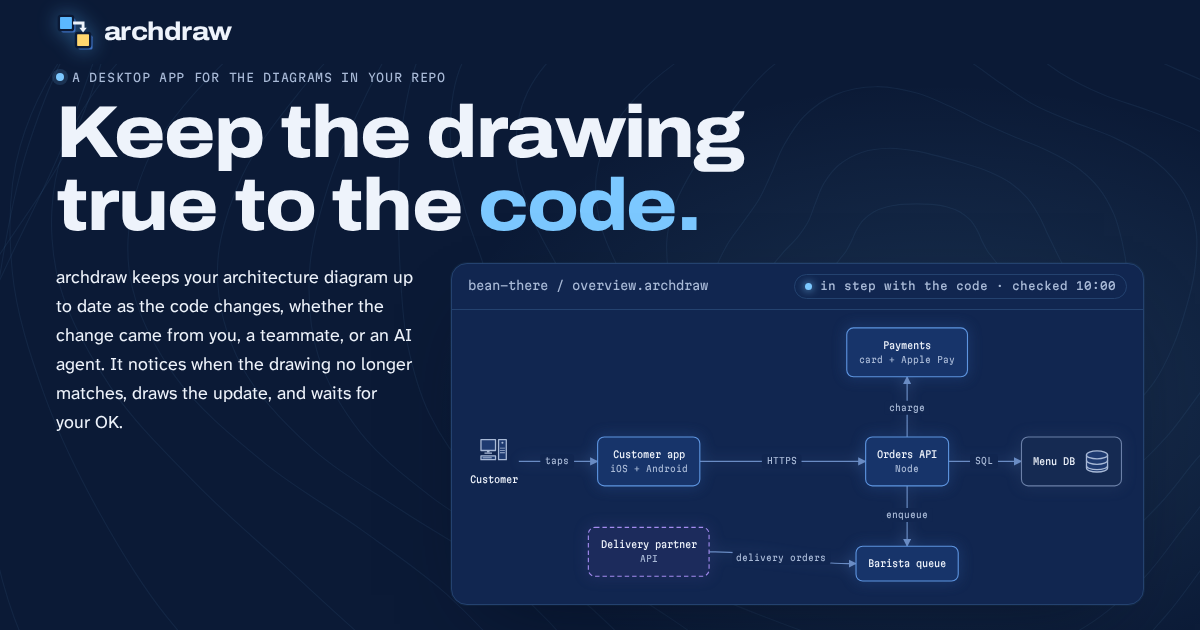
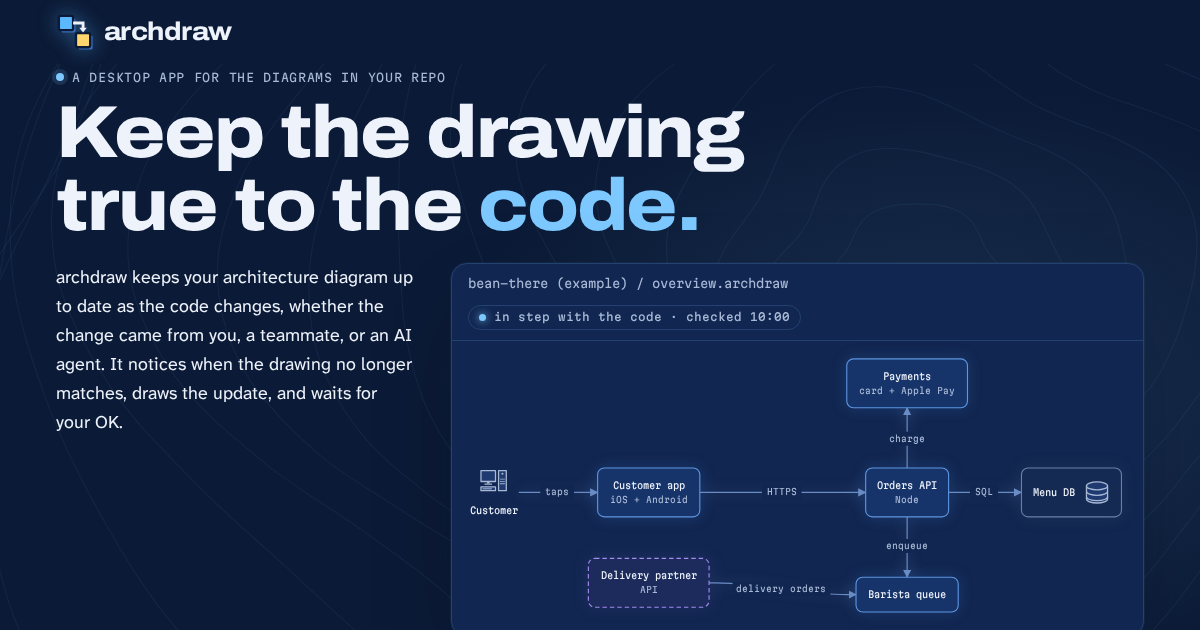
site: fixes from review (sponsors, privacy, keyboard Approve, pause)
- No Sponsor button or link until GitHub Sponsors is live.
- /privacy: the key is encrypted with the OS keychain and kept in an
  owner-only file; no archdraw server; agent requests go to the chosen
  provider under its terms; update checks reach GitHub every six hours;
  drafted updates sit on archdraw/update; Vercel keeps request logs.
- Approve uses aria-disabled so it stays focusable; pressing it early
  jumps to the story's end and approves; focus moves to "Show it again".
- A Pause motion control in the hero holds every looping animation.
- Step 3 says checks run while archdraw is open; daily reads "in 24 hours".
- Get: Mac .dmg hint, requirements line, "Next in the app" change log,
  "archdraw Cloud, later".
- One name for "fax orders"; the sample is labelled "(example)".
- Diff chip text at 4.5:1 or better in daylight; animation start
  states at 0.6 opacity; the week keeps its side gutter; phone drawing
  frames are labelled scroll regions that open on the busiest part;
  pills wrap at 360 px.
- README: www redirects to the apex, keep Namecheap MX/TXT records,
  an Ignored Build Step so app-only commits skip the site build.

Agent: Banna

Changed region(s): [[0.37, 0.6937, 0.9558, 1.0], [0.4008, 0.4222, 0.925, 0.5429], [0.6783, 0.5127, 0.8325, 0.6635]]

diff --git a/site/src/styles/global.css b/site/src/styles/global.css
@@ -19,6 +19,7 @@
   --chg: #B05C08;  --chg-soft: #B05C081C;   /* Amber: changed */
   --del: #C8333B;  --del-soft: #C8333B1C;   /* Ember: removed */
   --on-diff: #FFFFFF;
+  --add-text: #116B40; --chg-text: #8F4906; --del-text: #A8262E;   /* the diff colors as small text: 4.5:1 or better */
   --you: #1D5FD0; --mate: #7246D9; --agent: #B83598;
   --contour: #1D5FD014;
   --glow-a: 0;            /* glow strength multiplier (0 in daylight) */
@@ -40,7 +41,7 @@
     --text: #EEF3FB; --text-2: #A8B9D6; --signal: #7CC8FF; --signal-soft: #7CC8FF24; --on-signal: #0B1A36;
     --lamp: #FFD66E; --lamp-edge: #FFE7A6; --lamp-shadow: #B7861C; --on-lamp: #0B1A36;
     --add: #5EE0A0; --add-soft: #5EE0A026; --chg: #FFA24C; --chg-soft: #FFA24C26; --del: #FF6E6E; --del-soft: #FF6E6E26;
-    --on-diff: #0B1A36; --you: #7CC8FF; --mate: #C3A6FF; --agent: #F59BE6;
+    --on-diff: #0B1A36; --add-text: #5EE0A0; --chg-text: #FFA24C; --del-text: #FF6E6E; --you: #7CC8FF; --mate: #C3A6FF; --agent: #F59BE6;
     --contour: #7CC8FF12; --glow-a: 1;
     --dg-bg: #112650; --dg-box: #17346A; --dg-line: #5E95E0; --dg-store: #152A52; --dg-store-line: #6B80A8;
     --dg-ext: #1C2B5C; --dg-ext-line: #A48CF0; --dg-text: #EEF3FB; --dg-sub: #A8B9D6; --dg-edge: #6A8CC4;
@@ -54,7 +55,7 @@
   --text: #EEF3FB; --text-2: #A8B9D6; --signal: #7CC8FF; --signal-soft: #7CC8FF24; --on-signal: #0B1A36;
   --lamp: #FFD66E; --lamp-edge: #FFE7A6; --lamp-shadow: #B7861C; --on-lamp: #0B1A36;
   --add: #5EE0A0; --add-soft: #5EE0A026; --chg: #FFA24C; --chg-soft: #FFA24C26; --del: #FF6E6E; --del-soft: #FF6E6E26;
-  --on-diff: #0B1A36; --you: #7CC8FF; --mate: #C3A6FF; --agent: #F59BE6;
+  --on-diff: #0B1A36; --add-text: #5EE0A0; --chg-text: #FFA24C; --del-text: #FF6E6E; --you: #7CC8FF; --mate: #C3A6FF; --agent: #F59BE6;
   --contour: #7CC8FF12; --glow-a: 1;
   --dg-bg: #112650; --dg-box: #17346A; --dg-line: #5E95E0; --dg-store: #152A52; --dg-store-line: #6B80A8;
   --dg-ext: #1C2B5C; --dg-ext-line: #A48CF0; --dg-text: #EEF3FB; --dg-sub: #A8B9D6; --dg-edge: #6A8CC4;
@@ -109,7 +110,7 @@ code, kbd, pre, .mono { font-family: var(--f-mono); }
 .btn-lamp { --b: var(--lamp); --c: var(--on-lamp); --edge: var(--lamp-edge); --shadow: var(--lamp-shadow); }
 .btn-ghost { --b: transparent; --edge: var(--text-2); --shadow: var(--rule); }
 .btn-approve { --b: var(--add); --c: var(--on-diff); --edge: var(--add); --shadow: color-mix(in srgb, var(--add) 55%, #000); }
-.btn[disabled] { cursor: not-allowed; opacity: .55; transform: none; }
+.btn[disabled], .btn[aria-disabled="true"] { cursor: not-allowed; opacity: .55; transform: none; }
 .btn-sm { min-height: 40px; padding: .5em .95em; font-size: .92rem; box-shadow: 0 3px 0 var(--shadow); }
 
 /* header */
@@ -148,6 +149,7 @@ section { scroll-margin-top: 16px; }
 .win-bar { display: flex; align-items: center; justify-content: space-between; gap: 12px; flex-wrap: wrap; padding: 10px 16px; border-bottom: 1px solid var(--rule); font-size: .72rem; }
 .win-bar .mono { color: var(--text-2); }
 .pill { display: inline-flex; align-items: center; gap: 8px; font: 500 .68rem/1 var(--f-mono); padding: 6px 10px; border-radius: 99px; border: 1px solid var(--rule); color: var(--text-2); white-space: nowrap; }
+@media (max-width: 420px) { .pill { white-space: normal; line-height: 1.35; max-width: 100%; } .pill i { flex: none; } }
 .pill i { width: 7px; height: 7px; border-radius: 50%; background: var(--signal); box-shadow: 0 0 8px var(--signal); }
 .pill.warn i { background: var(--chg); box-shadow: 0 0 8px var(--chg); }
 .live-dot { width: 8px; height: 8px; border-radius: 50%; background: var(--signal); box-shadow: 0 0 0 4px var(--signal-soft); animation: beat 2.4s ease-in-out infinite; }
@@ -160,7 +162,7 @@ section { scroll-margin-top: 16px; }
 .who-arch .av { background: transparent; border: 1px solid var(--rule); } .who-arch .av .mark { width: 18px; height: 18px; }
 .chips { display: flex; flex-wrap: wrap; gap: 6px; }
 .chip { font: 600 .74rem var(--f-mono); padding: 4px 9px; border-radius: 6px; border: 1.5px solid currentColor; }
-.chip.add { color: var(--add); background: var(--add-soft); } .chip.chg { color: var(--chg); background: var(--chg-soft); } .chip.del { color: var(--del); background: var(--del-soft); }
+.chip.add { color: var(--add-text); background: var(--add-soft); } .chip.chg { color: var(--chg-text); background: var(--chg-soft); } .chip.del { color: var(--del-text); background: var(--del-soft); }
 
 /* plain pages: privacy, 404 */
 .page { padding-block: clamp(48px, 10vh, 120px); min-height: 60vh; }
@@ -172,6 +174,9 @@ footer { border-top: 1px solid var(--rule); padding-block: 28px 40px; }
 .foot nav { display: flex; flex-wrap: wrap; gap: 8px 18px; margin-left: auto; }
 .foot a { color: var(--text-2); }
 .foot .brand { font-size: 1.05rem; } .foot .brand .mark { width: 24px; height: 24px; }
+
+/* the hero's Pause motion control holds every CSS loop too */
+.motion-held *, .motion-held *::before, .motion-held *::after { animation-play-state: paused !important; }
 
 @media (prefers-reduced-motion: reduce) {
   *, *::before, *::after { animation: none !important; transition: none !important; scroll-behavior: auto !important; }

diff --git a/site/src/scripts/review.ts b/site/src/scripts/review.ts
@@ -15,13 +15,16 @@ export function initReview(): void {
   let settled = false, pinned = false;
   let flow: Particles | null = null;
   const canMove = () => !reduceMotion.matches;
+  // aria-disabled, not disabled: the button stays focusable while the story plays, and says why it waits
+  const setOff = (off: boolean) => approve.setAttribute('aria-disabled', String(off));
+  const isOff = () => approve.getAttribute('aria-disabled') === 'true';
 
   function settle() {
     if (settled) return;
     settled = true;
     story.classList.add('settled');
     approve.classList.remove('ready');
-    approve.disabled = true;
+    setOff(true);
     label.textContent = 'Approved';
     aStatus.textContent = 'Approved. The drawing is true again.';
     pill.classList.remove('warn');
@@ -36,7 +39,7 @@ export function initReview(): void {
     if (!settled) return;
     settled = false;
     story.classList.remove('settled');
-    approve.disabled = false;
+    setOff(false);
     approve.classList.add('ready');
     label.textContent = 'Approve update';
     aStatus.textContent = 'Waiting for your OK.';
@@ -45,7 +48,16 @@ export function initReview(): void {
     reset.hidden = true;
     if (flow) { flow.kill(); flow = null; }
   }
-  approve.addEventListener('click', settle);
+  approve.addEventListener('click', () => {
+    if (settled) return;
+    if (isOff() && pinned) {
+      // pressed before the story got there: jump to its end state, then approve
+      const st = ScrollTrigger.getById('story');
+      if (st) { window.scrollTo({ top: st.end, behavior: 'auto' }); ScrollTrigger.update(); }
+    }
+    settle();
+    reset.focus();
+  });
   reset.addEventListener('click', () => {
     unsettle();
     approve.focus();
@@ -84,7 +96,7 @@ export function initReview(): void {
         aStatus.textContent = STATUS[s];
         pillT.textContent = PILL[s];
         pill.classList.toggle('warn', s >= 1);
-        approve.disabled = s < 2;
+        setOff(s < 2);
         approve.classList.toggle('ready', s === 3);
       }
     };
@@ -96,7 +108,7 @@ export function initReview(): void {
         onUpdate: self => { const t = self.progress * tl.duration(); setStep(t < 1.3 ? 0 : t < 2.1 ? 1 : t < 4.1 ? 2 : 3); },
       },
     });
-    tl.fromTo(commits, { opacity: 0.35, x: -14 }, { opacity: 1, x: 0, stagger: 0.3, duration: 0.4, ease: 'power2.out' }, 0.1)
+    tl.fromTo(commits, { opacity: 0.6, x: -14 }, { opacity: 1, x: 0, stagger: 0.3, duration: 0.4, ease: 'power2.out' }, 0.1)
       .fromTo($$('.nd-pay .box, .nd-fax .box', sSvg), { strokeWidth: 1.5 }, { strokeWidth: 3, duration: 0.3 }, 1.3)
       .to({}, { duration: 0.6 })
       .add(draftTimeline(sSvg), 2.1)
@@ -113,7 +125,7 @@ export function initReview(): void {
       sSvg.classList.remove('is-stale');
       steps.forEach(li => li.classList.remove('on'));
       delete story.dataset.step;
-      approve.disabled = false;
+      setOff(false);
       approve.classList.add('ready');
       aStatus.textContent = 'Waiting for your OK.';
       pillT.textContent = 'update drafted · 10:00';

diff --git a/site/src/scripts/live.ts b/site/src/scripts/live.ts
@@ -14,6 +14,28 @@ function pathLen(d: string): number {
   try { return p.getTotalLength(); } catch { return 200; }
 }
 
+/* Looping animations register here, so one control can hold them all (WCAG 2.2.2, pause, stop, hide).
+   A loop plays only when its section wants it and the visitor has not held the motion. */
+interface Loop { wanted: boolean; run(on: boolean): void }
+const loops = new Set<Loop>();
+let held = false;
+export interface LoopHandle { play(): void; pause(): void; kill(): void }
+export function loop(run: (on: boolean) => void, onKill?: () => void): LoopHandle {
+  const l: Loop = { wanted: false, run };
+  loops.add(l);
+  return {
+    play() { l.wanted = true; if (!held && !reduceMotion.matches) run(true); },
+    pause() { l.wanted = false; run(false); },
+    kill() { loops.delete(l); run(false); onKill?.(); },
+  };
+}
+/** Hold (or release) every looping animation on the page, CSS ones included. */
+export function hold(on: boolean): void {
+  held = on;
+  document.documentElement.classList.toggle('motion-held', on);
+  loops.forEach(l => l.run(!on && l.wanted && !reduceMotion.matches));
+}
+
 /** A layer of particles running along the given paths inside an overlay svg. */
 export function particles(overlay: SVGSVGElement, routes: Route[], opts: { speed?: number; halo?: number; core?: number } = {}): Particles {
   const speed = opts.speed ?? 70; // svg units per second
@@ -42,12 +64,8 @@ export function particles(overlay: SVGSVGElement, routes: Route[], opts: { speed
       tls.push(tl);
     }
   }
-  return {
-    el: g,
-    play() { if (!reduceMotion.matches) tls.forEach(t => t.play()); },
-    pause() { tls.forEach(t => t.pause()); },
-    kill() { tls.forEach(t => t.kill()); g.remove(); },
-  };
+  const handle = loop(on => tls.forEach(t => (on ? t.play() : t.pause())), () => { tls.forEach(t => t.kill()); g.remove(); });
+  return { el: g, ...handle };
 }
 
 export const AFTER_ROUTES: Route[] = [{ d: P.taps }, { d: P.https }, { d: P.enq }, { d: P.sql }, { d: P.charge }, { d: P.deliv }];
@@ -74,7 +92,7 @@ export function setBefore(svg: SVGSVGElement): void {
   gsap.set(q('.ring'), { opacity: 0, transformOrigin: '50% 50%' });
 }
 
-/** The drafted update: the fax line goes red and leaves, the column slides, Payments grows,
+/** The drafted update: fax orders goes red and leaves, the column slides, Payments grows,
  *  Delivery partner is drawn in, and the marks glow on the real boxes. */
 export function draftTimeline(svg: SVGSVGElement): gsap.core.Timeline {
   const q = (s: string) => [...svg.querySelectorAll(s)], one = (s: string) => svg.querySelector(s)!;

diff --git a/site/src/scripts/hero.ts b/site/src/scripts/hero.ts
@@ -2,7 +2,7 @@
 // the edges, and the live ticker shows changes landing from you, a teammate and a coding agent, with
 // archdraw's hourly check sweeping the drawing. Everything here is decoration over a complete page.
 import { $, Flip, MOTION, ScrollTrigger, SplitText, gsap } from './gsap';
-import { AFTER_ROUTES, particles } from './live';
+import { AFTER_ROUTES, hold, loop, particles } from './live';
 
 type Who = 'you' | 'mate' | 'agent' | 'arch';
 interface Ev { at: number; w: Who; n: string; a?: string; t: string; node?: string }
@@ -25,6 +25,15 @@ const hhmm = (m: number) => `${String(Math.floor(m / 60) % 24).padStart(2, '0')}
 export function initHero(): void {
   const hero = $('.hero');
   if (!hero) return;
+
+  /* one control holds every looping animation on the page */
+  const holdBtn = $<HTMLButtonElement>('.hold', hero);
+  holdBtn?.addEventListener('click', () => {
+    const on = holdBtn.getAttribute('aria-pressed') !== 'true';
+    holdBtn.setAttribute('aria-pressed', String(on));
+    $('.hold-t', holdBtn).textContent = on ? 'Play motion' : 'Pause motion';
+    hold(on);
+  });
   const mm = gsap.matchMedia();
   mm.add(MOTION, () => {
     /* logo: the arrow draws once from block to block */
@@ -95,17 +104,19 @@ export function initHero(): void {
         if (fl) { fl.setAttribute('class', 'fl fl-' + e.node + ' who-' + e.w); gsap.fromTo(fl, { opacity: 1 }, { opacity: 0, duration: 1.8, ease: 'power2.in' }); }
       }
     };
-    const ticker = gsap.timeline({ repeat: -1, delay: 2.4 }).call(tick).to({}, { duration: 3.2 });
+    const ticker = gsap.timeline({ repeat: -1, delay: 2.4, paused: true }).call(tick).to({}, { duration: 3.2 });
+    const tk = loop(on => (on ? ticker.resume() : ticker.pause()), () => ticker.kill());
 
     /* everything rests while the hero is off screen */
     const st = ScrollTrigger.create({
       trigger: hero, start: 'top bottom', end: 'bottom top',
       onToggle: s => {
         hero.classList.toggle('off', !s.isActive);
-        if (s.isActive) { flow.play(); ticker.resume(); } else { flow.pause(); ticker.pause(); }
+        if (s.isActive) { flow.play(); tk.play(); } else { flow.pause(); tk.pause(); }
       },
     });
     flow.play();
-    return () => { flow.kill(); ticker.kill(); st.kill(); split?.revert(); };
+    tk.play();
+    return () => { flow.kill(); tk.kill(); st.kill(); split?.revert(); };
   });
 }

diff --git a/site/src/scripts/frames.ts b/site/src/scripts/frames.ts
@@ -1,0 +1,20 @@
+// Phone drawing frames: the drawing keeps a readable size and scrolls sideways inside its frame.
+// Open each frame on its busiest part, and keep the frame a keyboard stop only while it can scroll.
+export function initFrames(): void {
+  const frames = [...document.querySelectorAll<HTMLElement>('.stage-scroll')];
+  const fit = () => frames.forEach(el => {
+    const scrolls = el.scrollWidth > el.clientWidth + 1;
+    if (scrolls) {
+      el.setAttribute('tabindex', '0');
+      el.setAttribute('aria-label', 'Diagram, scrolls sideways');
+      const focus = Number(el.dataset.focus ?? 0.5); // where the busiest part sits, as a share of the drawing's width
+      el.scrollLeft = Math.max(0, Math.min(el.scrollWidth - el.clientWidth, focus * el.scrollWidth - el.clientWidth / 2));
+    } else {
+      el.removeAttribute('tabindex');
+      el.setAttribute('aria-label', 'Diagram');
+    }
+  });
+  fit();
+  let w = window.innerWidth;
+  window.addEventListener('resize', () => { if (window.innerWidth !== w) { w = window.innerWidth; fit(); } });
+}

diff --git a/site/src/styles/diagram.css b/site/src/styles/diagram.css
@@ -19,12 +19,12 @@
 .dg .ring-del rect { fill: var(--del-soft); stroke: var(--del); } .dg .ring-del circle { fill: var(--del); }
 .dg .eg-add .edge { stroke: var(--add); stroke-width: 2.4; }
 .dg .eg-add .arr, .dg .arr-add { fill: var(--add); }
-.dg .eg-add .lbl { fill: var(--add); font-weight: 600; }
+.dg .eg-add .lbl { fill: var(--add-text); font-weight: 600; }
 @media (prefers-color-scheme: light) { :root:not([data-theme="dark"]) .dg .rings { filter: none; } }
 :root[data-theme="light"] .dg .rings { filter: none; }
 .dg .stale-tags { opacity: 0; transition: opacity .4s; }
 .dg .tag rect { fill: var(--del-soft); stroke: var(--del); stroke-width: 1; stroke-dasharray: 3 3; }
-.dg .tag text { font-size: 12px; fill: var(--del); }
+.dg .tag text { font-size: 12px; fill: var(--del-text); }
 .dg-story .only-before { opacity: 0; }
 .dg .fl { fill: none; stroke-width: 2.5; }
 

diff --git a/site/src/scripts/together.ts b/site/src/scripts/together.ts
@@ -24,7 +24,7 @@ export function initTogether(): void {
       trigger: sec, start: 'top bottom', end: 'bottom top',
       onToggle: s => flows.forEach(f => (s.isActive ? f.play() : f.pause())),
     });
-    gsap.from($$('.src', sec), { x: -16, opacity: 0.4, duration: 0.7, stagger: 0.12, ease: 'power3.out', scrollTrigger: { trigger: $('.flow-fig', sec), start: 'top 80%', once: true } });
+    gsap.from($$('.src', sec), { x: -16, opacity: 0.6, duration: 0.7, stagger: 0.12, ease: 'power3.out', scrollTrigger: { trigger: $('.flow-fig', sec), start: 'top 80%', once: true } });
     return () => { flows.forEach(f => f.kill()); st.kill(); };
   });
 }

diff --git a/site/src/scripts/agents.ts b/site/src/scripts/agents.ts
@@ -5,6 +5,6 @@ export function initAgents(): void {
   const file = $('#agents .file');
   if (!file) return;
   gsap.matchMedia().add(MOTION, () => {
-    gsap.from($$('.ln', file), { opacity: 0.35, x: -6, duration: 0.4, stagger: 0.05, ease: 'power2.out', scrollTrigger: { trigger: file, start: 'top 75%', once: true } });
+    gsap.from($$('.ln', file), { opacity: 0.6, x: -6, duration: 0.4, stagger: 0.05, ease: 'power2.out', scrollTrigger: { trigger: file, start: 'top 75%', once: true } });
   });
 }

diff --git a/site/src/scripts/how.ts b/site/src/scripts/how.ts
@@ -5,7 +5,7 @@ import { particles, type Particles } from './live';
 
 const NOTES: Record<string, string> = {
   hour: 'Next check in 40 minutes.',
-  day: 'Next check tomorrow at 09:00.',
+  day: 'Next check in 24 hours.',
   ask: 'No timer. Press Sync now when you want a check.',
 };
 const TURN: Record<string, string> = { hour: 'rotate(0deg)', day: 'rotate(270deg)', ask: 'rotate(0deg)' };

diff --git a/site/README.md b/site/README.md
@@ -51,8 +51,9 @@ After changing the markup, check `dist/*.html` has no `<style`, no `style="` and
 1. In Vercel, **Add New… › Project** and import `safiware/archdraw` from GitHub.
 2. Set **Root Directory** to `site`. The framework is detected as **Astro**; the build command (`npm run build`) and output directory (`dist`) come from `vercel.json`. No environment variables are needed.
 3. In the project settings, turn off the **Vercel Toolbar** for preview deployments. It injects a script from vercel.live, which the CSP blocks (and which the privacy page says never happens). Leave Web Analytics and Speed Insights off for the same reason.
-4. Deploy. Every pull request that touches the repo gets a preview URL; merges to `main` go to production.
-5. In the project's **Settings › Domains**, add `archdraw.dev` and `www.archdraw.dev`. Make one redirect to the other (Vercel offers this when you add the second).
+4. In **Settings › Git › Ignored Build Step**, choose *Custom* and enter `git diff --quiet HEAD^ HEAD -- .`. The command runs in `site/`, so a commit that changes only `app/` or `engine/` does not rebuild the site.
+5. Deploy. Every pull request that changes `site/` gets a preview URL; merges to `main` go to production.
+6. In the project's **Settings › Domains**, add both `archdraw.dev` and `www.archdraw.dev`, and set `www.archdraw.dev` to redirect to `archdraw.dev` (the apex is the canonical URL the site declares).
 
 ### DNS at Namecheap
 
@@ -63,7 +64,7 @@ In Namecheap, open **Domain List › archdraw.dev › Manage › Advanced DNS** 
 | `A` | `@` | `76.76.21.21` |
 | `CNAME` | `www` | `cname.vercel-dns.com` |
 
-These are Vercel's usual values. Use the exact values Vercel's Domains page shows for your project; they can differ per project. Remove any other `A`, `AAAA`, `CNAME` or URL-redirect records for `@` and `www` (Namecheap adds a parking record by default). Vercel issues the HTTPS certificate once the records resolve.
+These are Vercel's usual values. Use the exact values Vercel's Domains page shows for your project; they can differ per project. Remove any other `A`, `AAAA`, `CNAME` or URL-redirect records for `@` and `www` (Namecheap adds a parking record by default). Leave the `MX` and `TXT` records for Namecheap email forwarding alone; if hello@archdraw.dev is forwarded through Namecheap, it depends on them. Vercel issues the HTTPS certificate once the records resolve.
 
 `vercel.json` sends `Strict-Transport-Security` with `includeSubDomains`, so every subdomain of archdraw.dev must serve HTTPS.
 
